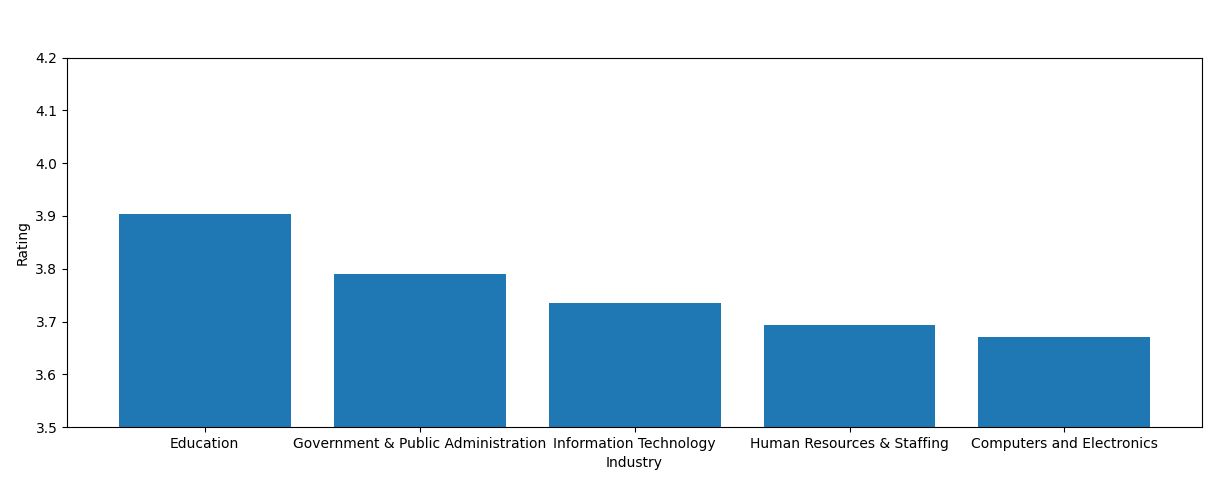
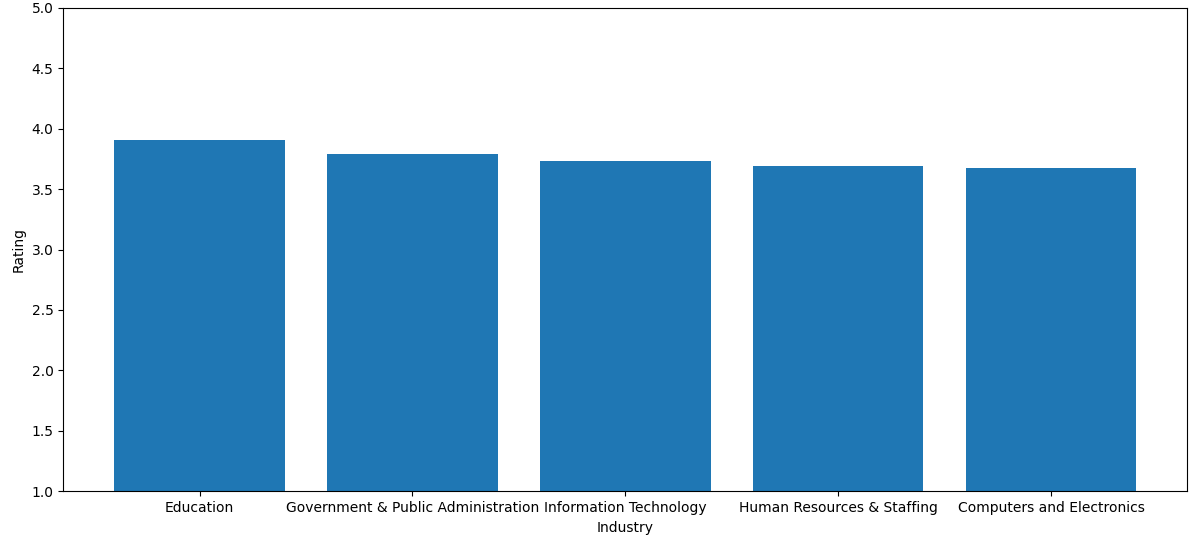
Changed scale of best and worst industries

diff --git a/src/analyzeGraphs.py b/src/analyzeGraphs.py
@@ -1,5 +1,3 @@
-import json
-from cv2 import rotate
 import numpy as np
 import pandas as pd
 import matplotlib.pyplot as plt
@@ -140,8 +138,8 @@ def show_best_industry_ratings(rating_by_industry):
     plt.figure()
 
     plt.bar(rating_by_industry.index[0:5], rating_by_industry.tolist()[0:5])
-    low = 3.5
-    high = 4.2
+    low = 1.0
+    high = 5.0
     plt.ylim(low, high)
     #plt.xticks(rotate=90)
     plt.title("Best industries for work satisfaction")
@@ -157,8 +155,8 @@ def show_worse_industry_ratings(rating_by_industry):
     plt.figure()
 
     plt.bar(rating_by_industry.index[-5:], rating_by_industry.tolist()[-5:])
-    low = 3.0
-    high = 3.6
+    low = 1.0
+    high = 5.0
     plt.ylim(low, high)
     #plt.xticks(rotation=90)
     plt.title("Worse industries for work satisfaction")
